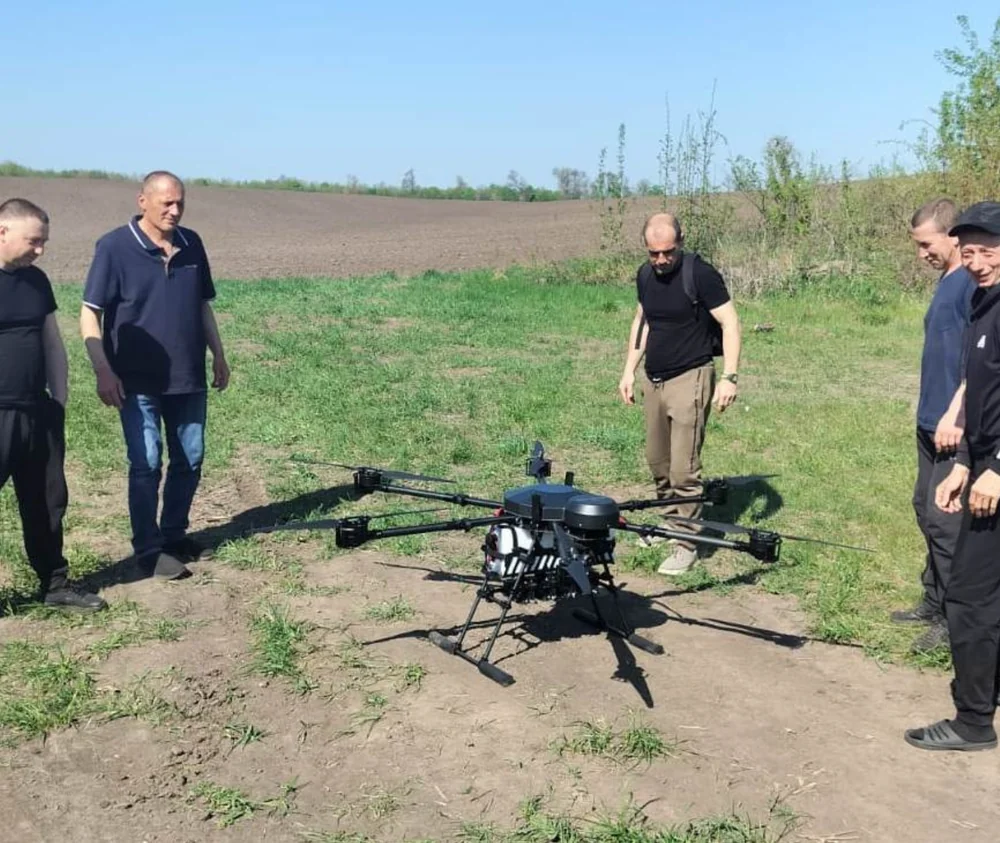
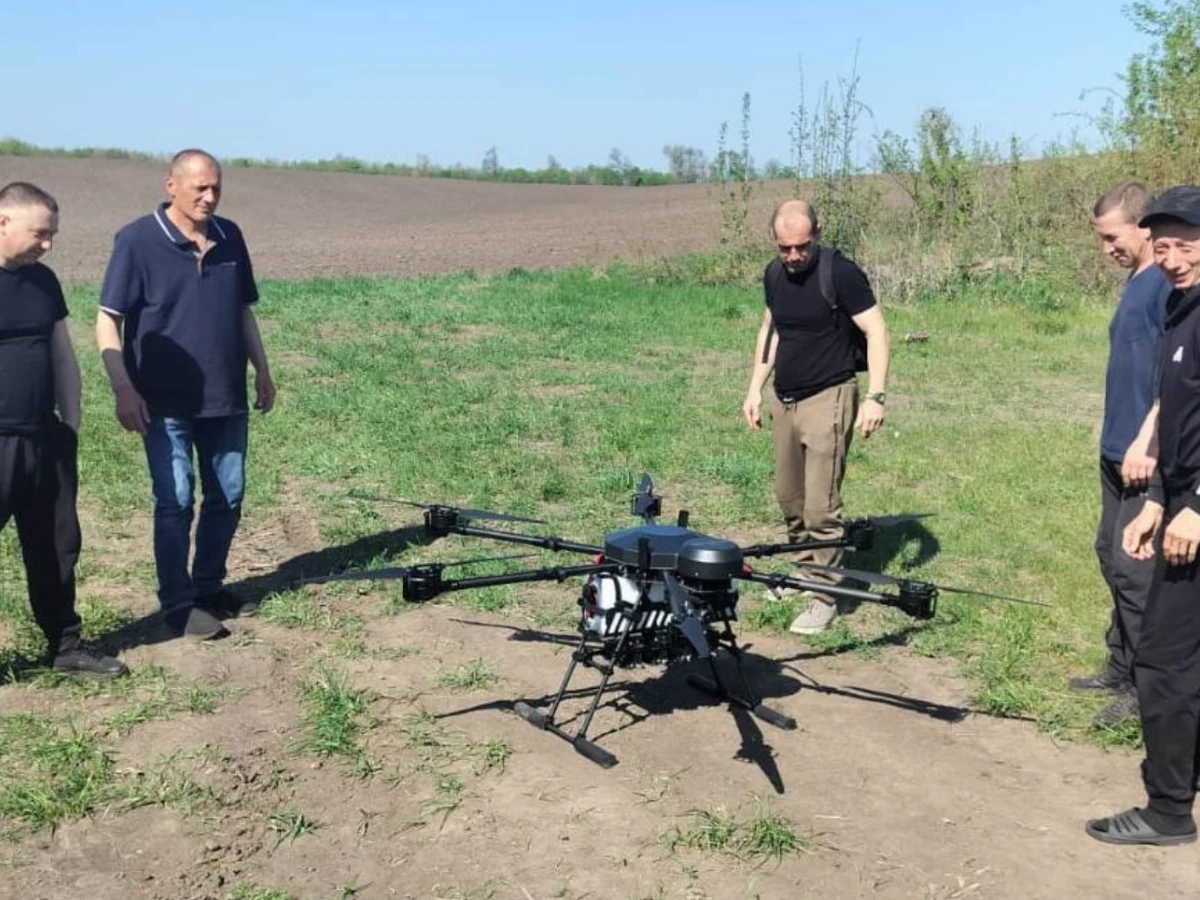
Replace Батальйони images with the specially prepared set
The initial Батальйони build used images sourced correctly but
re-cropped by hand (from the "2026_2_files" folder's raw assets).
The user had separately prepared a dedicated, properly cropped
image set for this battalion in "2бБпС/images/" — replace all 15
images (banner, 8 combat-path photos, 3 commander portraits, 3
staff portraits) with that set and update each image's aspect-ratio
to match its exact prepared dimensions.

Claude-Session: https://claude.ai/code/session_01HD8wAxj5LFp6M43rrvstzX

diff --git a/index.html b/index.html
@@ -586,7 +586,7 @@ button.read-more-btn.expanded svg{transform:rotate(180deg);}
 <section class="card" id="bat-2bbs-path">
   <h2 class="card-title card-title-solo">Бойовий шлях</h2>
   <div class="card-body">
-    <div class="collapsible-body" id="collapse-49"><p>З перших днів повномасштабного вторгнення російської федерації командування батальйону разом із місцевою владою організувало мобілізаційні пункти. До лав підрозділу масово долучалися мешканці Золочівського району Львівщини.</p><p>16 березня 2022 року батальйон завершив бойове злагодження: перевірили особовий склад, озброєння й техніку, підготували підрозділи до виконання завдань. Наступного дня, 17 березня, батальйон приступив до виконання бойових завдань.</p><p>На початку травня 2022 року батальйон зайняв оборону в районі Серебрянки на Донеччині, уздовж правого берега Сіверського Дінця, поблизу Дронівки та Сіверська. Там же розмістився командно-спостережний пункт батальйону.</p><div class="photo-slots n2"><img loading="lazy" class="photo-slot-img" style="aspect-ratio:1000/637;" src="images/battalion-2bbs-path-1.webp" alt="Бойовий шлях 2 батальйону БпС, Серебрянка, 2022"><img loading="lazy" class="photo-slot-img" style="aspect-ratio:1000/738;" src="images/battalion-2bbs-path-2.webp" alt="Бойовий шлях 2 батальйону БпС, позиції, 2022"></div><p>З 10 червня по 10 липня 2022 року батальйон перебував у Черкаській області, де відновлював боєздатність і проходив бойове злагодження.</p><p>Наприкінці серпня 2022 року батальйон прийняв від 54-ї окремої механізованої бригади смугу оборони вздовж правого берега Сіверського Дінця.</p><div class="photo-slots n1"><img loading="lazy" class="photo-slot-img" style="aspect-ratio:1000/563;" src="images/battalion-2bbs-path-3.webp" alt="Бойовий шлях 2 батальйону БпС, серпень 2022"></div><p>У вересні 2022 року батальйон перейшов до наступальних дій. Підрозділи вели штурмові та пошуково-ударні дії на напрямках Крива Лука – Ямпіль – Зарічне та Крива Лука – Діброва – Лиман, створюючи умови для звільнення Ямполя та Лимана.</p><div class="photo-slots n1"><img loading="lazy" class="photo-slot-img" style="aspect-ratio:1000/467;" src="images/battalion-2bbs-path-4.webp" alt="Бойовий шлях 2 батальйону БпС, вересень 2022"></div><p>6 жовтня 2022 року батальйон змінив на позиціях підрозділи 80-ї окремої десантно-штурмової бригади та зайняв новий рубіж оборони.</p><p>З листопада 2022 року батальйон утримував район оборони поблизу Першотравневого, пліч-о-пліч із 66-ю окремою механізованою бригадою та 65-м батальйоном територіальної оборони.</p><div class="photo-slots n1"><img loading="lazy" class="photo-slot-img" style="aspect-ratio:1000/663;" src="images/battalion-2bbs-path-5.webp" alt="Бойовий шлях 2 батальйону БпС, листопад 2022"></div><p>Згодом разом із 65-м батальйоном та підрозділами 66-ї бригади батальйон розпочав наступ у напрямку Андріївки та Сватового із завданням вийти до південних околиць Джерельного та правого берега річки Ревуха. Одночасно з початком наступу розвідувальний взвод батальйону проводив демонстраційні дії та вів розвідку в смузі наступу, виявляючи опорні пункти, скупчення живої сили й техніки противника. Підрозділи інженерно облаштовували зайняті позиції та утримували їх, відбиваючи контратаки ворога. Водночас батальйон налагоджував логістику та медичне забезпечення своїх воїнів.</p><p>У червні 2023 року батальйон разом зі своїми районами оборони перейшов в оперативне підпорядкування 32-ї окремої механізованої бригади.</p><p>Наприкінці липня 2023 року до складу батальйону тимчасово ввійшла 2-га рота 403-го окремого стрілецького батальйону. Разом вони зайняли нові позиції та облаштували їх в інженерному відношенні.</p><p>29 липня 2023 року батальйон разом із 3-м механізованим батальйоном провів заміну підрозділів і зайняв новий район оборони. Він пролягав уздовж лісосмуг і польової дороги, по краю дамби до південно-західного берега водосховища.</p><p>Того ж дня батальйон отримав завдання відновити втрачені позиції першої лінії оборони бригади, «Богунію» та «Париж». Для цього 30 липня йому підпорядкували 5-ту роту 1-ї бригади оперативного призначення Національної гвардії України. 31 липня після вогневого ураження противника артилерією бригади підрозділи пішли на штурм, повернули втрачені позиції та закріпилися на них.</p><p>На початку серпня 2023 року батальйон перейшов до складу угруповання 25-ї окремої повітрянодесантної бригади.</p><p>У березні 2024 року батальйон перейшов в оперативне підпорядкування 77-ї окремої аеромобільної бригади.</p><p>22 квітня 2024 року він передав свої позиції та повернувся до складу рідної 103-ї бригади територіальної оборони.</p><p>До кінця травня 2024 року батальйон у складі 103-ї бригади виконував бойові завдання в зоні відповідальності ОТУ «Сіверськ».</p><p>З травня 2024 по липень 2025 року воїни батальйону боронили Сумщину, зокрема в районах Яструбиного, Обод і Степного.</p><p>30 липня 2025 року батальйон перетворено в 3-й батальйон територіальної оборони 103-ї бригади.</p><div class="photo-slots n1"><img loading="lazy" class="photo-slot-img" style="aspect-ratio:1000/663;" src="images/battalion-2bbs-path-6.webp" alt="Бойовий шлях 2 батальйону БпС, липень 2025"></div><p>З 8 серпня по 4 вересня та з 16 по 28 вересня 2025 року батальйон виконував бойові завдання на території Курської області російської федерації у складі УВ «Курськ».</p><div class="photo-slots n1"><img loading="lazy" class="photo-slot-img" style="aspect-ratio:753/1000;max-width:380px;margin:0 auto;" src="images/battalion-2bbs-path-7.webp" alt="Бойовий шлях 2 батальйону БпС, Курська область, 2025"></div><p>1 січня 2026 року батальйон перетворено у 2-й батальйон безпілотних систем 103-ї бригади. Його місцем базування стало Білопілля на Сумщині.</p><div class="photo-slots n1"><img loading="lazy" class="photo-slot-img" style="aspect-ratio:1000/843;" src="images/battalion-2bbs-path-8.webp" alt="Бойовий шлях 2 батальйону БпС, Білопілля, 2026"></div><p>Нині батальйон виконує бойові завдання на Сумщині, в районах Білопілля, Іскрисківщини та Безсалівки.</p></div><button class="read-more-btn" data-target="collapse-49"><span class="btn-label">Читати далі</span><svg viewBox="0 0 24 24" fill="none" stroke="currentColor" stroke-width="1.6" stroke-linecap="round" stroke-linejoin="round" aria-hidden="true"><polyline points="6 9 12 15 18 9"/></svg></button>
+    <div class="collapsible-body" id="collapse-49"><p>З перших днів повномасштабного вторгнення російської федерації командування батальйону разом із місцевою владою організувало мобілізаційні пункти. До лав підрозділу масово долучалися мешканці Золочівського району Львівщини.</p><p>16 березня 2022 року батальйон завершив бойове злагодження: перевірили особовий склад, озброєння й техніку, підготували підрозділи до виконання завдань. Наступного дня, 17 березня, батальйон приступив до виконання бойових завдань.</p><p>На початку травня 2022 року батальйон зайняв оборону в районі Серебрянки на Донеччині, уздовж правого берега Сіверського Дінця, поблизу Дронівки та Сіверська. Там же розмістився командно-спостережний пункт батальйону.</p><div class="photo-slots n2"><img loading="lazy" class="photo-slot-img" style="aspect-ratio:1200/900;" src="images/battalion-2bbs-path-1.webp" alt="Бойовий шлях 2 батальйону БпС, Серебрянка, 2022"><img loading="lazy" class="photo-slot-img" style="aspect-ratio:1200/900;" src="images/battalion-2bbs-path-2.webp" alt="Бойовий шлях 2 батальйону БпС, позиції, 2022"></div><p>З 10 червня по 10 липня 2022 року батальйон перебував у Черкаській області, де відновлював боєздатність і проходив бойове злагодження.</p><p>Наприкінці серпня 2022 року батальйон прийняв від 54-ї окремої механізованої бригади смугу оборони вздовж правого берега Сіверського Дінця.</p><div class="photo-slots n1"><img loading="lazy" class="photo-slot-img" style="aspect-ratio:1200/900;" src="images/battalion-2bbs-path-3.webp" alt="Бойовий шлях 2 батальйону БпС, серпень 2022"></div><p>У вересні 2022 року батальйон перейшов до наступальних дій. Підрозділи вели штурмові та пошуково-ударні дії на напрямках Крива Лука – Ямпіль – Зарічне та Крива Лука – Діброва – Лиман, створюючи умови для звільнення Ямполя та Лимана.</p><div class="photo-slots n1"><img loading="lazy" class="photo-slot-img" style="aspect-ratio:1200/900;" src="images/battalion-2bbs-path-4.webp" alt="Бойовий шлях 2 батальйону БпС, вересень 2022"></div><p>6 жовтня 2022 року батальйон змінив на позиціях підрозділи 80-ї окремої десантно-штурмової бригади та зайняв новий рубіж оборони.</p><p>З листопада 2022 року батальйон утримував район оборони поблизу Першотравневого, пліч-о-пліч із 66-ю окремою механізованою бригадою та 65-м батальйоном територіальної оборони.</p><div class="photo-slots n1"><img loading="lazy" class="photo-slot-img" style="aspect-ratio:1500/500;" src="images/battalion-2bbs-path-5.webp" alt="Бойовий шлях 2 батальйону БпС, листопад 2022"></div><p>Згодом разом із 65-м батальйоном та підрозділами 66-ї бригади батальйон розпочав наступ у напрямку Андріївки та Сватового із завданням вийти до південних околиць Джерельного та правого берега річки Ревуха. Одночасно з початком наступу розвідувальний взвод батальйону проводив демонстраційні дії та вів розвідку в смузі наступу, виявляючи опорні пункти, скупчення живої сили й техніки противника. Підрозділи інженерно облаштовували зайняті позиції та утримували їх, відбиваючи контратаки ворога. Водночас батальйон налагоджував логістику та медичне забезпечення своїх воїнів.</p><p>У червні 2023 року батальйон разом зі своїми районами оборони перейшов в оперативне підпорядкування 32-ї окремої механізованої бригади.</p><p>Наприкінці липня 2023 року до складу батальйону тимчасово ввійшла 2-га рота 403-го окремого стрілецького батальйону. Разом вони зайняли нові позиції та облаштували їх в інженерному відношенні.</p><p>29 липня 2023 року батальйон разом із 3-м механізованим батальйоном провів заміну підрозділів і зайняв новий район оборони. Він пролягав уздовж лісосмуг і польової дороги, по краю дамби до південно-західного берега водосховища.</p><p>Того ж дня батальйон отримав завдання відновити втрачені позиції першої лінії оборони бригади, «Богунію» та «Париж». Для цього 30 липня йому підпорядкували 5-ту роту 1-ї бригади оперативного призначення Національної гвардії України. 31 липня після вогневого ураження противника артилерією бригади підрозділи пішли на штурм, повернули втрачені позиції та закріпилися на них.</p><p>На початку серпня 2023 року батальйон перейшов до складу угруповання 25-ї окремої повітрянодесантної бригади.</p><p>У березні 2024 року батальйон перейшов в оперативне підпорядкування 77-ї окремої аеромобільної бригади.</p><p>22 квітня 2024 року він передав свої позиції та повернувся до складу рідної 103-ї бригади територіальної оборони.</p><p>До кінця травня 2024 року батальйон у складі 103-ї бригади виконував бойові завдання в зоні відповідальності ОТУ «Сіверськ».</p><p>З травня 2024 по липень 2025 року воїни батальйону боронили Сумщину, зокрема в районах Яструбиного, Обод і Степного.</p><p>30 липня 2025 року батальйон перетворено в 3-й батальйон територіальної оборони 103-ї бригади.</p><div class="photo-slots n1"><img loading="lazy" class="photo-slot-img" style="aspect-ratio:1500/500;" src="images/battalion-2bbs-path-6.webp" alt="Бойовий шлях 2 батальйону БпС, липень 2025"></div><p>З 8 серпня по 4 вересня та з 16 по 28 вересня 2025 року батальйон виконував бойові завдання на території Курської області російської федерації у складі УВ «Курськ».</p><div class="photo-slots n1"><img loading="lazy" class="photo-slot-img" style="aspect-ratio:1200/900;" src="images/battalion-2bbs-path-7.webp" alt="Бойовий шлях 2 батальйону БпС, Курська область, 2025"></div><p>1 січня 2026 року батальйон перетворено у 2-й батальйон безпілотних систем 103-ї бригади. Його місцем базування стало Білопілля на Сумщині.</p><div class="photo-slots n1"><img loading="lazy" class="photo-slot-img" style="aspect-ratio:1200/900;" src="images/battalion-2bbs-path-8.webp" alt="Бойовий шлях 2 батальйону БпС, Білопілля, 2026"></div><p>Нині батальйон виконує бойові завдання на Сумщині, в районах Білопілля, Іскрисківщини та Безсалівки.</p></div><button class="read-more-btn" data-target="collapse-49"><span class="btn-label">Читати далі</span><svg viewBox="0 0 24 24" fill="none" stroke="currentColor" stroke-width="1.6" stroke-linecap="round" stroke-linejoin="round" aria-hidden="true"><polyline points="6 9 12 15 18 9"/></svg></button>
   </div>
 </section>
 
